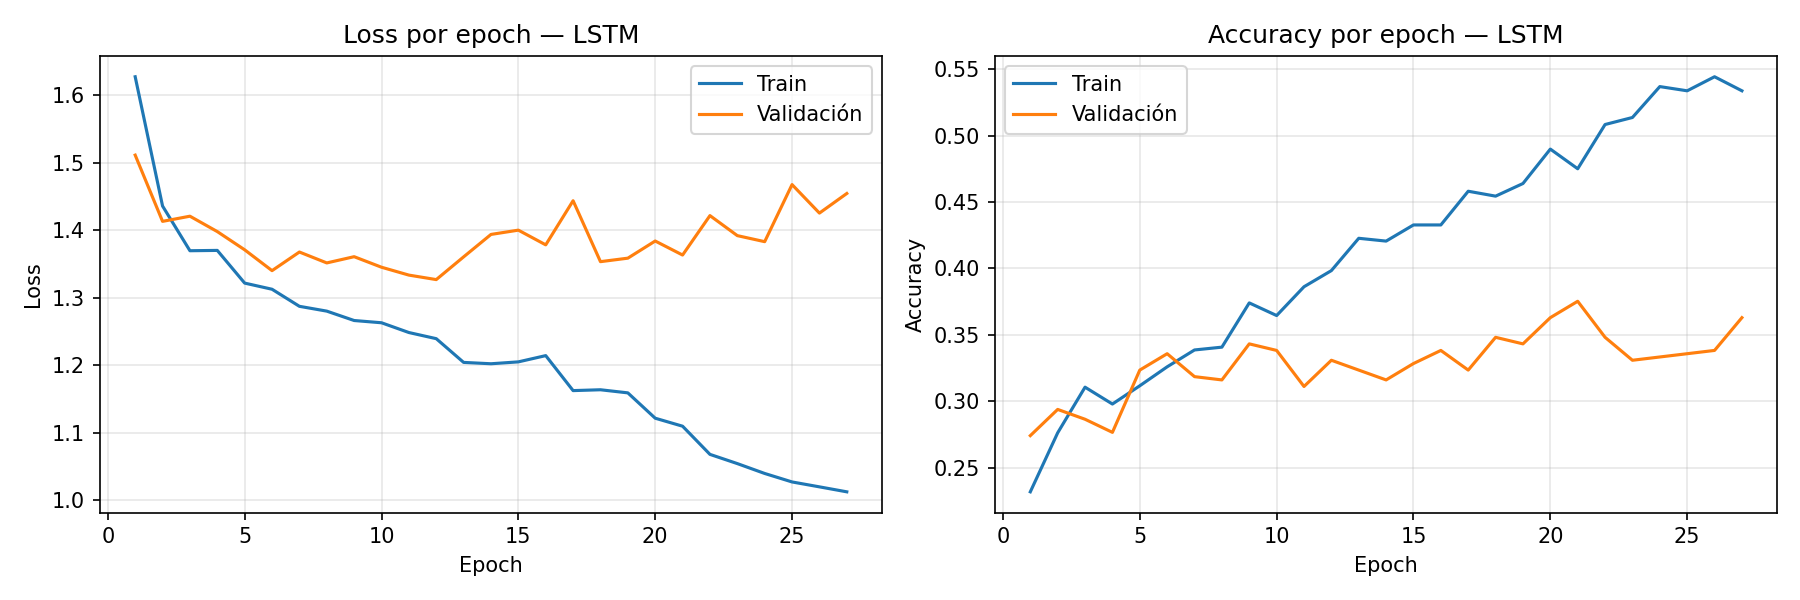
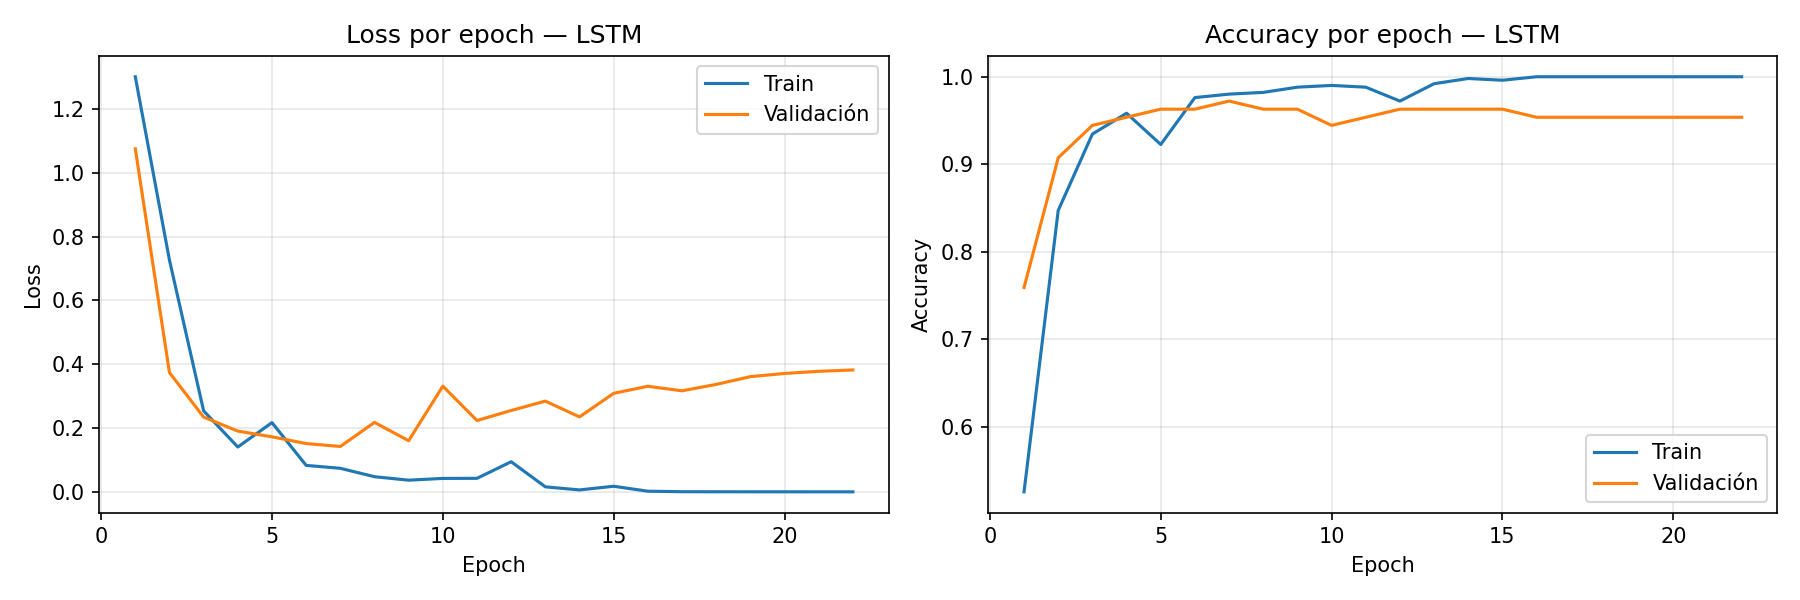
Tanda 1 LSTM

diff --git a/Scripts/probar_lstm.py b/Scripts/probar_lstm.py
@@ -1,0 +1,203 @@
+"""
+probar_lstm.py — Prueba rápida del modelo LSTM con el micrófono
+Proyecto Final IA — Universidad Rafael Landívar
+
+Graba 2.5 segundos de audio, extrae la secuencia MFCC
+y predice el comando compuesto.
+
+Uso:
+    python scripts/probar_lstm.py
+
+Presiona Ctrl+C para salir.
+"""
+
+import os
+import pickle
+import time
+import numpy as np
+import sounddevice as sd
+import torch
+import torch.nn as nn
+import librosa
+
+# ──────────────────────────────────────────────
+# CONFIGURACIÓN (debe coincidir con preprocesar_lstm.py)
+# ──────────────────────────────────────────────
+SAMPLE_RATE     = 16000
+DURACION_SEG    = 2.5
+N_MFCC          = 40
+N_FFT           = 512
+HOP_LENGTH      = 160
+N_FRAMES        = 128
+CONFIANZA_MIN   = 0.5
+CARPETA_MODELOS = "modelos"
+
+
+# ──────────────────────────────────────────────
+# ARQUITECTURA (debe ser idéntica a entrenar_lstm.py)
+# ──────────────────────────────────────────────
+class LSTMClasificador(nn.Module):
+    def __init__(self, input_size, hidden_size, num_layers,
+                 num_classes, dropout=0.3):
+        super(LSTMClasificador, self).__init__()
+        self.lstm = nn.LSTM(
+            input_size=input_size,
+            hidden_size=hidden_size,
+            num_layers=num_layers,
+            batch_first=True,
+            dropout=dropout if num_layers > 1 else 0,
+            bidirectional=True
+        )
+        self.classifier = nn.Sequential(
+            nn.Dropout(dropout),
+            nn.Linear(hidden_size * 2, 64),
+            nn.ReLU(),
+            nn.Linear(64, num_classes)
+        )
+
+    def forward(self, x):
+        output, _ = self.lstm(x)
+        return self.classifier(output[:, -1, :])
+
+
+# ──────────────────────────────────────────────
+# FUNCIONES
+# ──────────────────────────────────────────────
+
+def cargar_modelo():
+    """Carga el modelo LSTM y su metadata."""
+    ruta_info  = os.path.join(CARPETA_MODELOS, "lstm_secuencial_info.pkl")
+    ruta_pesos = os.path.join(CARPETA_MODELOS, "lstm_secuencial.pt")
+
+    if not os.path.exists(ruta_info):
+        print("  ✗ No se encontró el modelo LSTM.")
+        print("    Ejecuta primero: python scripts/entrenar_lstm.py")
+        exit(1)
+
+    with open(ruta_info, "rb") as f:
+        info = pickle.load(f)
+
+    model = LSTMClasificador(
+        input_size=info["input_size"],
+        hidden_size=info["hidden_size"],
+        num_layers=info["num_layers"],
+        num_classes=info["num_classes"]
+    )
+    model.load_state_dict(torch.load(ruta_pesos, map_location="cpu"))
+    model.eval()
+
+    return model, info["clases"], info.get("n_frames", N_FRAMES)
+
+
+def grabar_audio():
+    """Graba DURACION_SEG segundos desde el micrófono."""
+    muestras = int(SAMPLE_RATE * DURACION_SEG)
+    audio = sd.rec(muestras, samplerate=SAMPLE_RATE,
+                   channels=1, dtype="float32")
+    sd.wait()
+    return audio.flatten()
+
+
+def preprocesar_audio(audio, n_frames):
+    """Extrae secuencia MFCC — pipeline idéntico a preprocesar_lstm.py."""
+    longitud = int(SAMPLE_RATE * DURACION_SEG)
+
+    # Normalizar amplitud
+    max_val = np.max(np.abs(audio))
+    if max_val > 0:
+        audio = audio / max_val
+
+    # Normalizar longitud
+    if len(audio) < longitud:
+        audio = np.pad(audio, (0, longitud - len(audio)))
+    else:
+        audio = audio[:longitud]
+
+    # Extraer MFCC + delta + delta-delta
+    mfcc   = librosa.feature.mfcc(y=audio, sr=SAMPLE_RATE,
+                                   n_mfcc=N_MFCC, n_fft=N_FFT,
+                                   hop_length=HOP_LENGTH)
+    delta  = librosa.feature.delta(mfcc)
+    delta2 = librosa.feature.delta(mfcc, order=2)
+
+    # Transponer: (T, features)
+    features = np.concatenate([mfcc, delta, delta2], axis=0).T
+
+    # Padding o recorte a n_frames fijo
+    if features.shape[0] < n_frames:
+        pad = np.zeros((n_frames - features.shape[0], features.shape[1]))
+        features = np.vstack([features, pad])
+    else:
+        features = features[:n_frames, :]
+
+    return features.astype(np.float32)
+
+
+def predecir(model, features, clases):
+    """Retorna la clase predicha, su probabilidad y todas las probabilidades."""
+    x = torch.FloatTensor(features).unsqueeze(0)  # (1, frames, features)
+    with torch.no_grad():
+        logits = model(x)
+        probs  = torch.softmax(logits, dim=1).squeeze()
+
+    idx       = probs.argmax().item()
+    confianza = probs[idx].item()
+    return clases[idx], confianza, probs.numpy()
+
+
+def barra_confianza(prob, ancho=20):
+    llenas = int(prob * ancho)
+    return "█" * llenas + "░" * (ancho - llenas)
+
+
+# ──────────────────────────────────────────────
+# FLUJO PRINCIPAL
+# ──────────────────────────────────────────────
+
+def main():
+    print("\n" + "═" * 50)
+    print("  PRUEBA DE VOZ — LSTM (comandos compuestos)")
+    print("  Universidad Rafael Landívar — IA 2026")
+    print("═" * 50)
+
+    print("\nCargando modelo LSTM...")
+    model, clases, n_frames = cargar_modelo()
+
+    print(f"\n  Clases reconocidas:")
+    for c in clases:
+        print(f"    • {c}")
+    print(f"\n  Duración de grabación : {DURACION_SEG}s")
+    print(f"  Umbral de confianza   : {CONFIANZA_MIN:.0%}")
+    print(f"  Frames por secuencia  : {n_frames}")
+    print("\n  IMPORTANTE: Di la frase completa en una sola")
+    print("  toma. Ejemplo: 'enciende alarma', 'apaga persiana'")
+    print("\nPresiona Ctrl+C para salir.\n")
+
+    while True:
+        input("  Presiona ENTER para grabar...")
+        print(f"  🔴 Grabando {DURACION_SEG}s — di tu frase ahora")
+
+        t_inicio = time.time()
+        audio    = grabar_audio()
+        features = preprocesar_audio(audio, n_frames)
+        clase, confianza, probs = predecir(model, features, clases)
+        latencia_ms = (time.time() - t_inicio) * 1000
+
+        print("\n  ── Resultado ───────────────────────────────")
+        for i, (c, p) in enumerate(zip(clases, probs)):
+            marca = " ◄" if i == probs.argmax() else ""
+            print(f"  {c:<25} {barra_confianza(p)} {p:5.1%}{marca}")
+
+        print(f"\n  Latencia total : {latencia_ms:.0f} ms")
+
+        if confianza >= CONFIANZA_MIN:
+            print(f"  ✅ Comando compuesto: {clase}  ({confianza:.1%})")
+        else:
+            print(f"  ⚠  Confianza baja ({confianza:.1%}) — intenta de nuevo")
+            print(f"     Habla más claro y cerca del micrófono")
+
+        print("  ────────────────────────────────────────────\n")
+
+
+if __name__ == "__main__":
+    main()